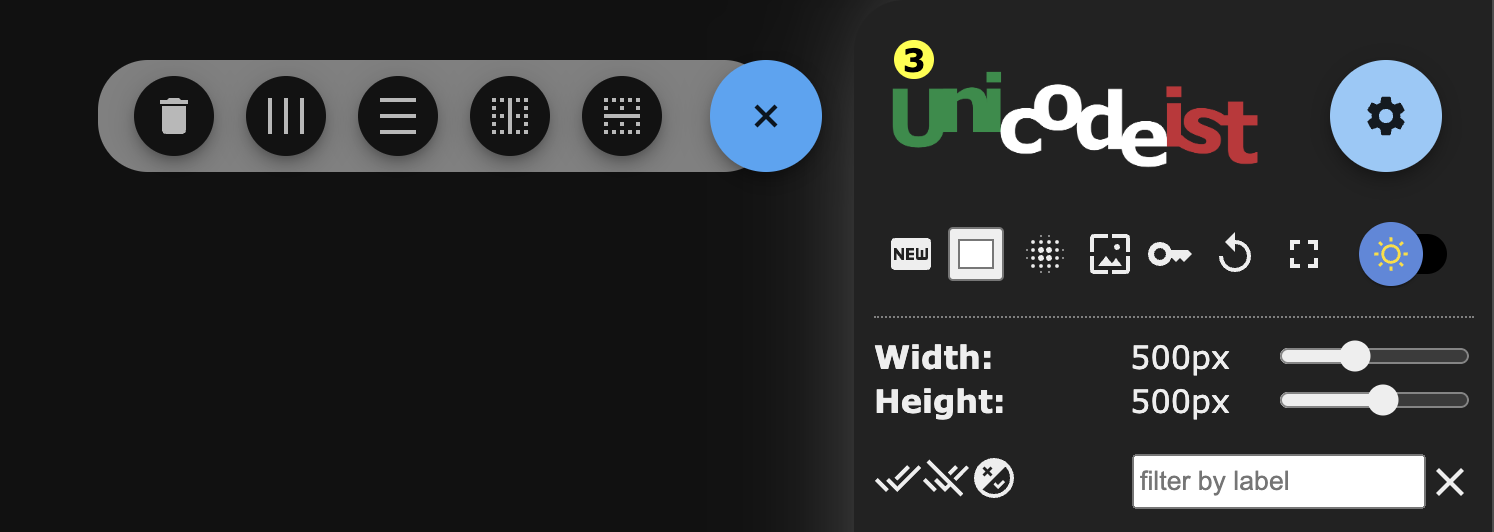
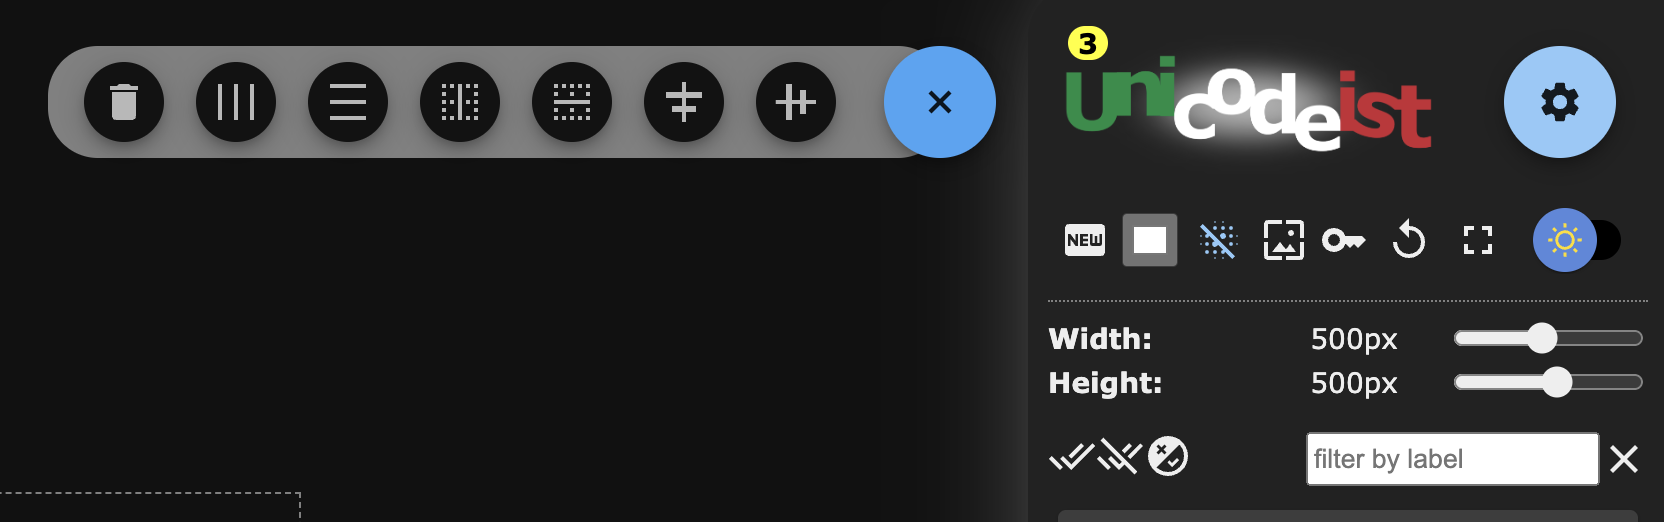
blck center selected

diff --git a/src/cmp/Layout/cmp/Main/cmp/BulkActions/index.jsx b/src/cmp/Layout/cmp/Main/cmp/BulkActions/index.jsx
@@ -8,6 +8,8 @@ import { useContext } from 'react';
 
 
 import ctx from 'src/Context';
+import AlignHorizontalCenterIcon from '@mui/icons-material/AlignHorizontalCenter';
+import AlignVerticalCenterIcon from '@mui/icons-material/AlignVerticalCenter';
 import BorderVerticalIcon from '@mui/icons-material/BorderVertical';
 import BorderHorizontalIcon from '@mui/icons-material/BorderHorizontal';
 import DensityMediumIcon from '@mui/icons-material/DensityMedium';
@@ -25,6 +27,8 @@ const BulkActions = () => {
             }
         } = useContext(ctx),
         classes = useStyles(),
+        centerVertically = () => dispatch({type: ACTIONS.BULK_CENTER_VERTICALLY}),
+        centerHorizontally = () => dispatch({type: ACTIONS.BULK_CENTER_HORIZONALLY}),
         alignVertically = () => {
             dispatch({type: ACTIONS.BULK_ALIGNV});
         },
@@ -45,28 +49,32 @@ const BulkActions = () => {
         },
         actions = [
             {
+                name:'center vertically',
+                icon: <AlignVerticalCenterIcon/>,
+                onClick: centerVertically
+            },{
+                name:'center horizontally',
+                icon: <AlignHorizontalCenterIcon/>,
+                onClick: centerHorizontally
+            },{
                 name:'align vertically',
                 icon: <BorderHorizontalIcon/>,
                 onClick: alignVertically
-            },
-            {
+            },{
                 name:'align horizontally',
                 icon: <BorderVerticalIcon/>,
                 onClick: alignHorizontally
-            },
-            {
+            },{
                 name:'space evenly vertically',
                 icon: <DensityMediumIcon/>,
                 onClick: spaceVertically,
                 disabled: selected.length < 3
-            },
-            {
+            },{
                 name:'space evenly horizontally',
                 icon: <DensityMediumIcon className={classes.Rot}/>,
                 onClick: spaceHorizontally,
                 disabled: selected.length < 3
-            },
-            {
+            },{
                 name:'delete all',
                 icon: <DeleteIcon />,
                 onClick: deleteAll

diff --git a/src/reducer/index.js b/src/reducer/index.js
@@ -645,6 +645,48 @@ const actions = {
             };
         },
 
+        [ACTIONS.BULK_CENTER_HORIZONALLY]: ({oldState: {symbols, width, selected}}) => {
+            const {min, max} = symbols
+                .filter(({id}) => selected.includes(id))
+                .reduce(
+                    (acc, symbol) => {
+                        symbol.left < acc.min && (acc.min = symbol.left);
+                        symbol.left > acc.max && (acc.max = symbol.left);
+                        return acc;
+                    }
+                , {min: Number.POSITIVE_INFINITY, max:Number.NEGATIVE_INFINITY}),
+                meanLeft = (min+max) / 2,
+
+                targetLeft = width / 2,
+                diffLeft = targetLeft - meanLeft;
+            return {
+                symbols: symbols.map(symbol => selected.includes(symbol.id)
+                    ? {...symbol, left: symbol.left + diffLeft}
+                    : symbol
+                )
+            };
+        },
+        [ACTIONS.BULK_CENTER_VERTICALLY]: ({oldState: {symbols, height, selected}}) => {
+            const {min, max} = symbols
+                .filter(({id}) => selected.includes(id))
+                .reduce(
+                    (acc, symbol) => {
+                        symbol.top < acc.min && (acc.min = symbol.top);
+                        symbol.top > acc.max && (acc.max = symbol.top);
+                        return acc;
+                    }
+                , {min: Number.POSITIVE_INFINITY, max:Number.NEGATIVE_INFINITY}),
+                meanTop = (min+max) / 2,
+                targetTop = height / 2,
+                diffTop = targetTop - meanTop;
+            return {
+                symbols: symbols.map(symbol => selected.includes(symbol.id)
+                    ? {...symbol, top: symbol.top + diffTop}
+                    : symbol
+                )
+            };
+        },
+
     },
     reducer = (oldState, action) => {
         const { payload = {}, type } = action;

diff --git a/src/reducer/actions.js b/src/reducer/actions.js
@@ -42,6 +42,8 @@ const INIT = Symbol('init'),
     BULK_ALIGNH = Symbol('bulk horizontal align'),
     BULK_SPACE= Symbol('bulk horiz / vert space'),
     BULK_DELETE = Symbol('bulk delete'),
+    BULK_CENTER_VERTICALLY = Symbol('bulk center vertically'),
+    BULK_CENTER_HORIZONALLY = Symbol('bulk center horizontally'),
     SWITCH_SYMBOL = Symbol('switch_symbol'),
     TOGGLE_ITALIC = Symbol('toggle italic');
 
@@ -90,6 +92,8 @@ const exp = {
     BULK_ALIGNH,
     BULK_SPACE,
     BULK_DELETE,
+    BULK_CENTER_VERTICALLY,
+    BULK_CENTER_HORIZONALLY,
     SWITCH_SYMBOL,
     TOGGLE_SYMBOL_SELECTION,
     TOGGLE_SYMBOLS_SELECTION,

diff --git a/public/index.html b/public/index.html
@@ -11,7 +11,7 @@
     />
     <link rel="apple-touch-icon" href="%PUBLIC_URL%/logo192.png" />
     <link rel="manifest" href="%PUBLIC_URL%/manifest.json" />
-    <title>Unicodeist 0.0.12</title>
+    <title>Unicodeist 0.0.13</title>
   </head>
   <body>
     <noscript>You need to enable JavaScript to run this app.</noscript>

diff --git a/README.md b/README.md
@@ -102,11 +102,14 @@ When more than one symbol is added, then you will see a checkbox (for both expan
 1) trash the selected symbols  
 2) equally space them horizontally (when min. 3 symbols selection)  
 3) equally space them vertically (min. 3 symbols also here)  
-4) align the vertically  
-5) align the horizontally  
+4) align horizontally  
+5) align vertically  
+6) center horizontally  
+7) center vertically  
 
 **2** and **3** use as boundaries the most left/top one and the most right/bottom one;  
-**4** and **5** align on the mean vertical/horizontal position.
+**4** and **5** align on the mean vertical/horizontal position;  
+**6** and **7** center moving the mid point between min & max left / top distance;
 
 ### Move | scale all symbols  
 To move all _symbols_ together just go to the _unicodeist_ logo in the right upper part and drag within the logo, on mouse release all symbols will move together in that direction for an amout proportional to the movement.  

diff --git a/CHANGELOG.md b/CHANGELOG.md
@@ -25,3 +25,6 @@ bulk actions:
 0.0.12
 - italic option added
 - swap symbol
+
+0.0.13
+- bulk center horizontally / vertically
